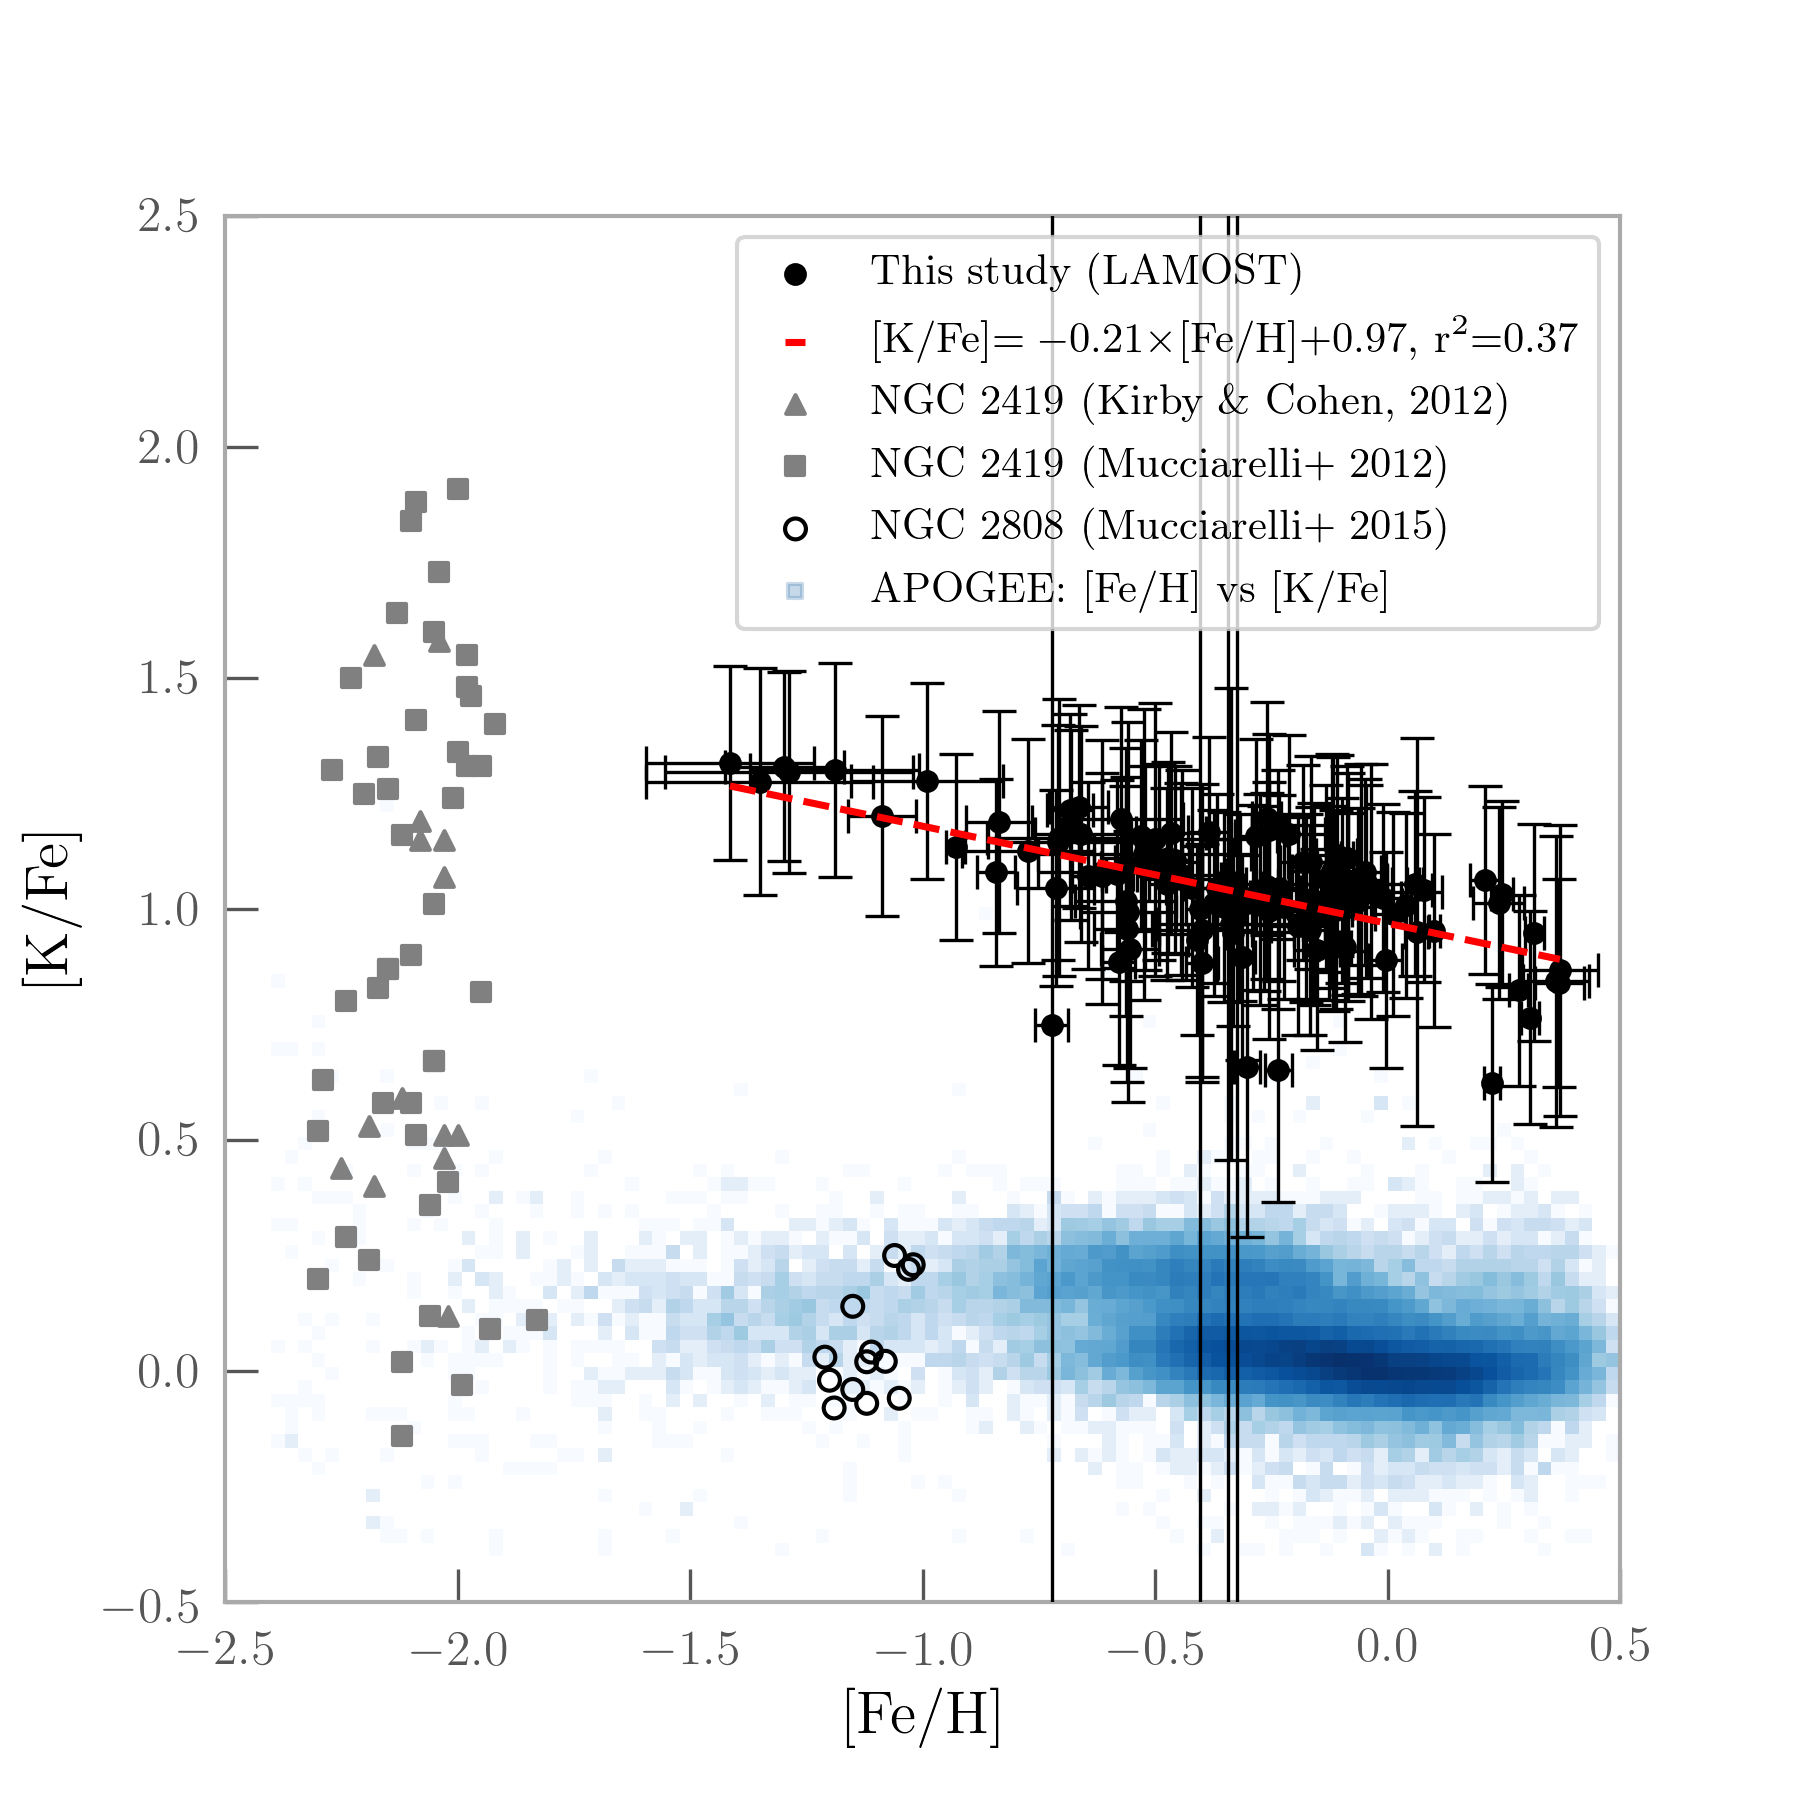
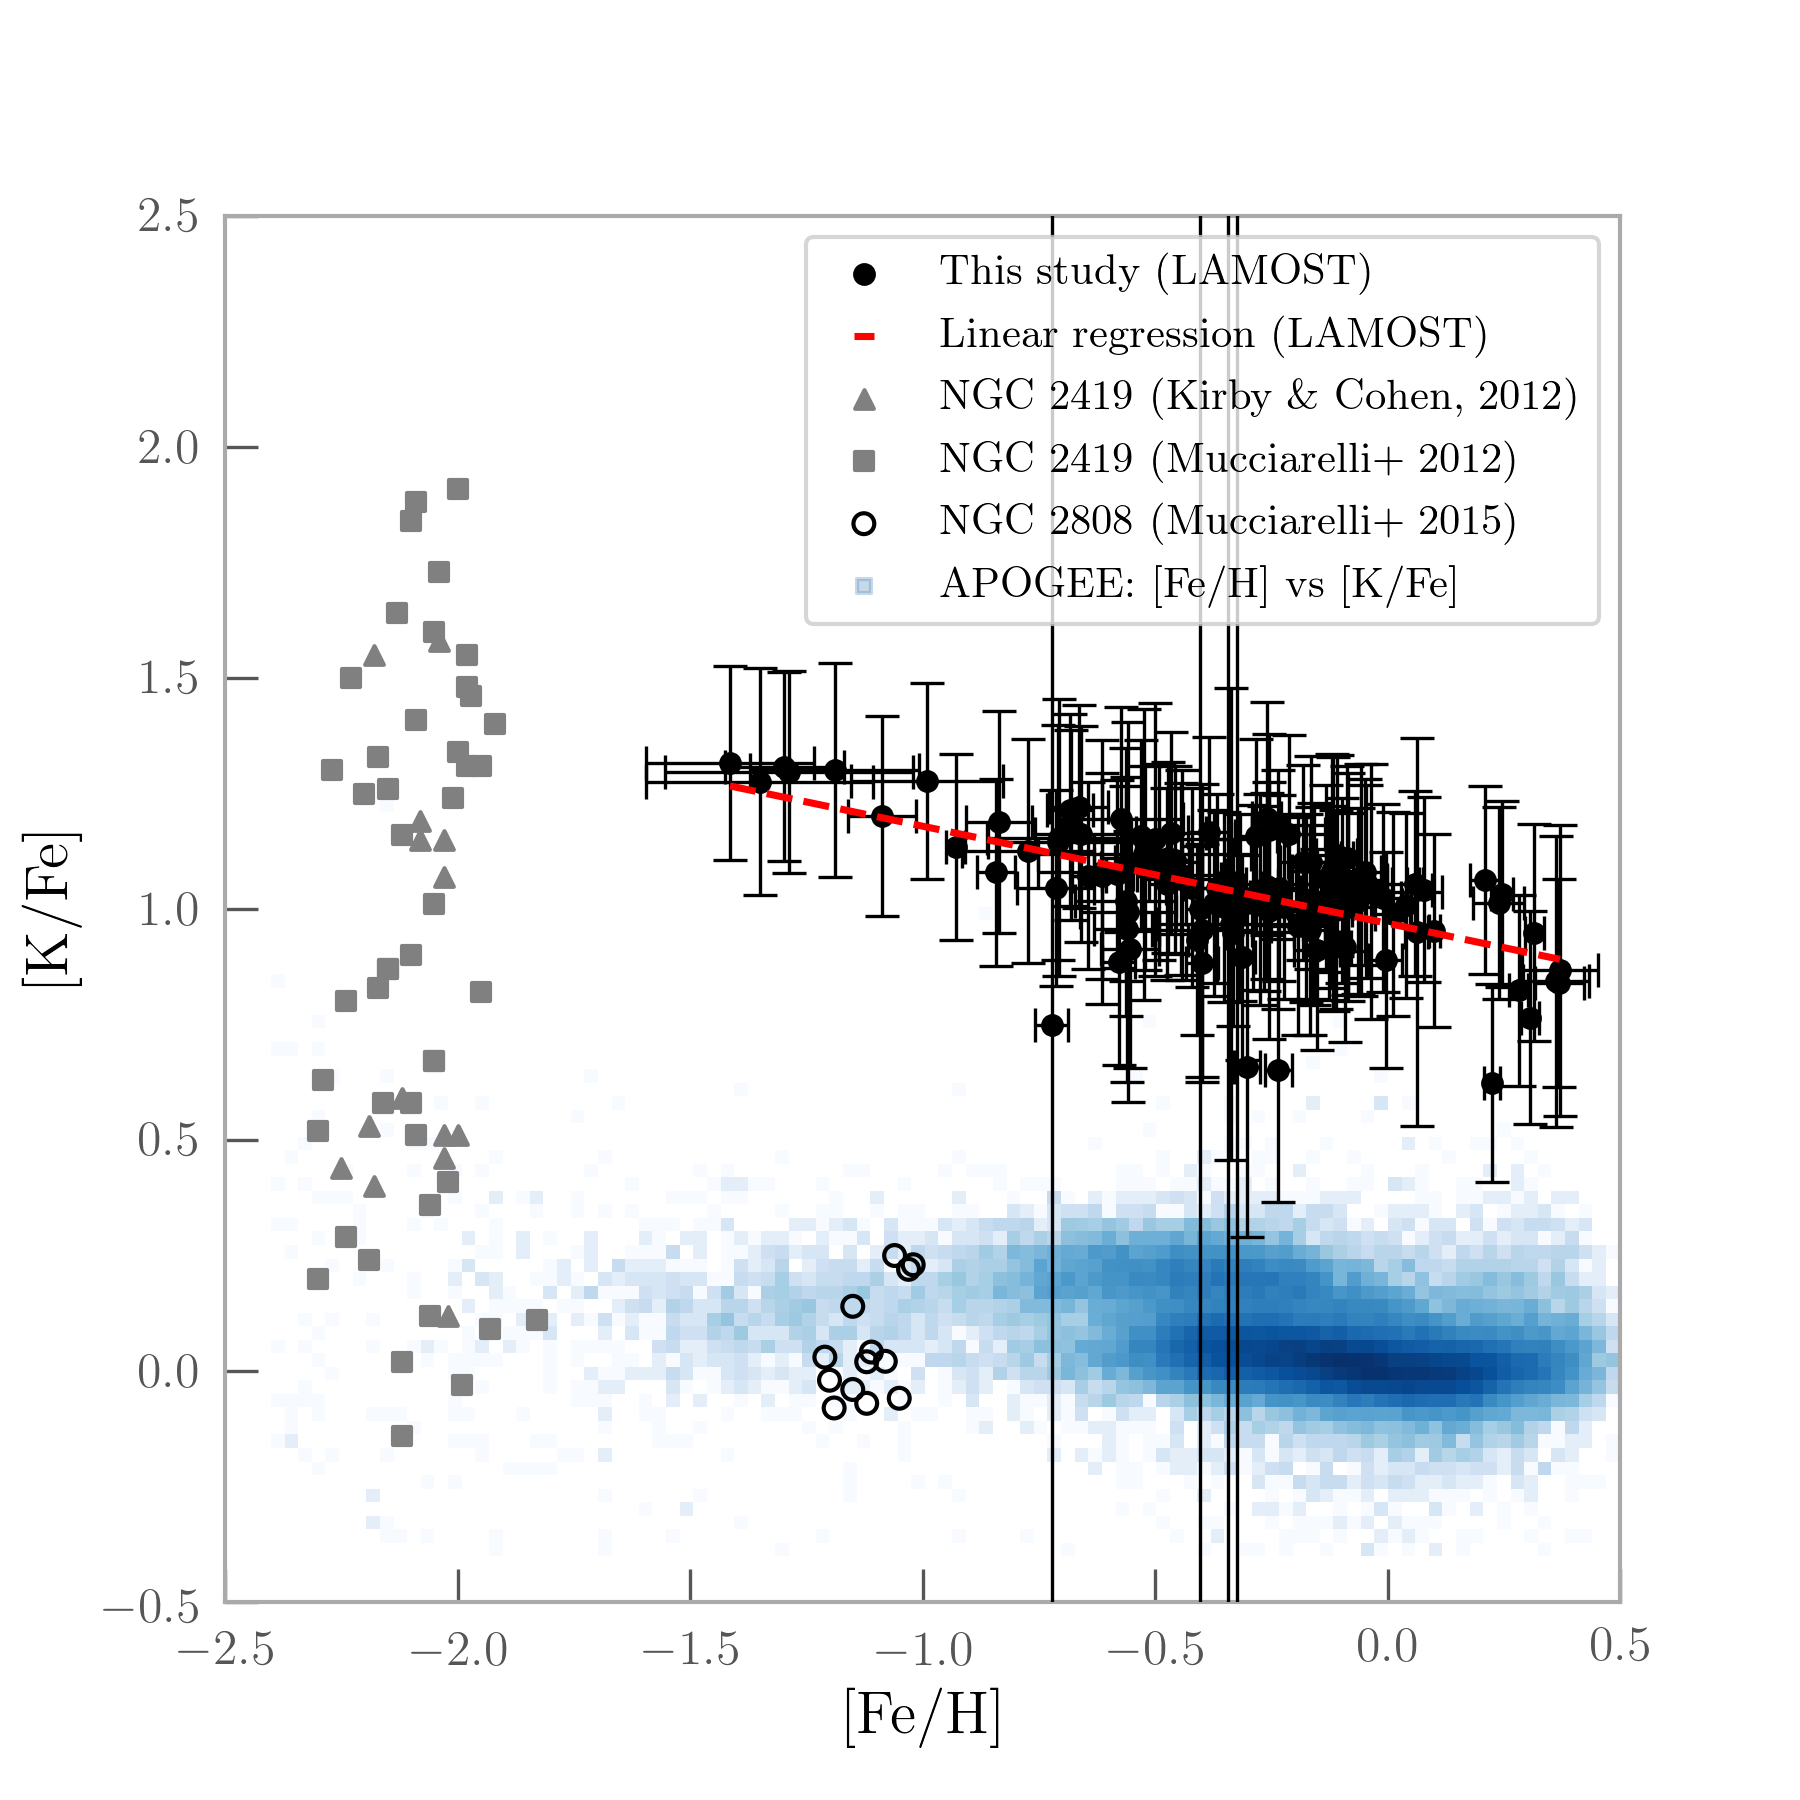
a

Changed region(s): [[0.4044, 0.1244, 0.8711, 0.3733]]

diff --git a/article/msculled_revised_2.tex b/article/msculled_revised_2.tex
@@ -347,7 +347,7 @@ However, we concluded that the high [Na/Fe] abundance ratios we derive are likel
  %See Section \ref{sec:method} for discussion on the use of [$\alpha$/Fe] as a proxy for [Mg/Fe].} 
 \begin{figure}
 	\includegraphics[width=\columnwidth]{KvsFe.png}
-    \caption{[K/Fe] vs [Fe/H] for the candidate stars, overlaid with [K/Fe] vs [Fe/H] for NGC 2419 and NGC 2808 \citep{cohenkirby2012, mucciarelli2012, mucciarelli2015}.}
+    \caption{[K/Fe] vs [Fe/H] for the candidate stars, overlaid with [K/Fe] vs [Fe/H] for NGC 2419 and NGC 2808 \citep{cohenkirby2012, mucciarelli2012, mucciarelli2015}. The linear regression formula is \textrm{[K/Fe]$=-0.21 \times$[Fe/H]$+0.97$, with r$^2$=0.37}.}
     \label{KvsFe}
 \end{figure}
 
